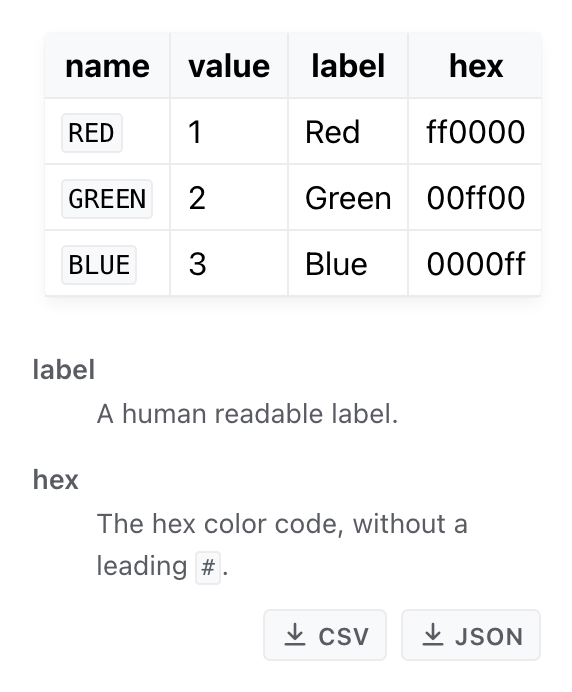
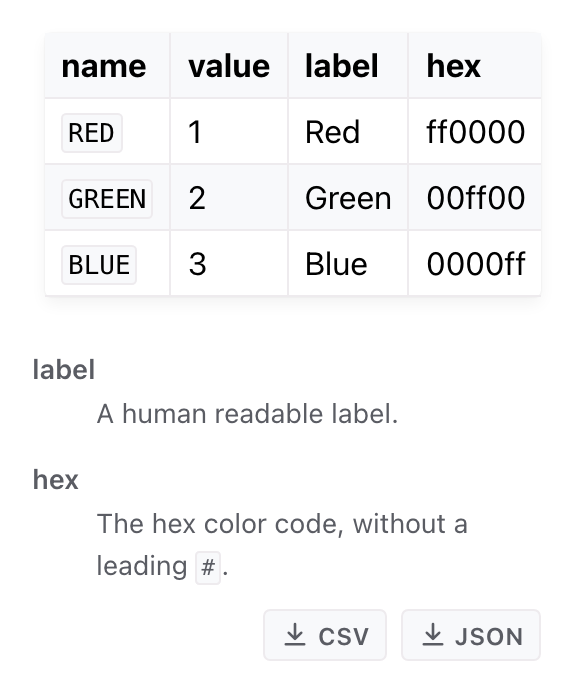
Add support for light/dark mode on furo theme

Changed region(s): [[0.535, 0.0607, 0.6836, 0.1214], [0.0892, 0.0607, 0.2675, 0.1214], [0.743, 0.0607, 0.8916, 0.1214]]

diff --git a/src/sphinxcontrib_enum/static/sphinxcontrib_enum_furo.css b/src/sphinxcontrib_enum/static/sphinxcontrib_enum_furo.css
@@ -1,0 +1,36 @@
+/*
+ * sphinxcontrib-enum: enum-table styles for the furo theme.
+ *
+ * Loaded (after sphinxcontrib_enum.css) only when html_theme = "furo". Colors use
+ * furo's variables, which furo redefines for dark mode, so these rules follow the
+ * light, dark and auto (system preference) modes without separate dark rules.
+ */
+
+/* striped rows make wide tables easier to scan */
+.enum-table-container table.enum-table > tbody > tr:nth-child(even) {
+    background: var(--color-background-secondary);
+}
+
+.enum-table-container table.enum-table > tbody > tr:hover {
+    background: var(--color-background-hover);
+}
+
+/* align header text with the cell content below it */
+.enum-table-container table.enum-table > thead th {
+    text-align: left;
+}
+
+/*
+ * furo's table shadow is too faint to see on its dark background, give tables a
+ * visible edge in dark mode. Furo's dark mode is either chosen explicitly
+ * (data-theme="dark") or follows the system preference (data-theme="auto").
+ */
+body[data-theme="dark"] .enum-table-container table.enum-table {
+    box-shadow: 0 0 0 1px var(--color-table-border);
+}
+
+@media (prefers-color-scheme: dark) {
+    body[data-theme="auto"] .enum-table-container table.enum-table {
+        box-shadow: 0 0 0 1px var(--color-table-border);
+    }
+}

diff --git a/src/sphinxcontrib_enum/__init__.py b/src/sphinxcontrib_enum/__init__.py
@@ -27,7 +27,7 @@ enum-properties.
 """
 
 __title__ = "sphinxcontrib-enum"
-__version__ = "0.2.0"
+__version__ = "0.3.0"
 __author__ = "Brian Kohan"
 __license__ = "MIT"
 __copyright__ = "Copyright 2026 Brian Kohan"
@@ -62,17 +62,26 @@ __all__ = [
 
 STATIC_DIR = Path(__file__).parent / "static"
 
+BASE_CSS = "sphinxcontrib_enum.css"
 
-def _add_static_path(app: Sphinx) -> None:
+THEME_CSS = {"furo": "sphinxcontrib_enum_furo.css"}
+"""Additional stylesheets for specific html themes, keyed by ``html_theme``."""
+
+
+def _add_static_files(app: Sphinx) -> None:
     # let sphinx copy (and refresh) our css with the rest of the static files, a new
     # list is assigned so we never mutate a default shared between applications
     app.config.html_static_path = [*app.config.html_static_path, str(STATIC_DIR)]
+    theme_css = THEME_CSS.get(app.config.html_theme)
+    if theme_css:
+        # after the base stylesheet so theme rules take precedence
+        app.add_css_file(theme_css, priority=501)
 
 
 def setup(app: Sphinx) -> dict[str, t.Any]:
     directive.setup(app)
-    app.add_css_file("sphinxcontrib_enum.css")
-    app.connect("builder-inited", _add_static_path)
+    app.add_css_file(BASE_CSS)
+    app.connect("builder-inited", _add_static_files)
     return {
         "version": __version__,
         "parallel_read_safe": True,

diff --git a/tests/test.py b/tests/test.py
@@ -1179,6 +1179,33 @@ def test_epub_builder(tmp_path):
     assert not (out / "_downloads").exists()
 
 
+@pytest.mark.parametrize(
+    "theme, theme_css",
+    [
+        ("furo", "sphinxcontrib_enum_furo.css"),
+        ("alabaster", None),
+    ],
+)
+def test_theme_css(tmp_path, theme, theme_css):
+    """Theme specific stylesheets are only loaded for their theme."""
+    out, warnings = build(
+        tmp_path, ".. enum-table:: tests.enums.Plain\n", html_theme=theme
+    )
+    assert not warnings
+    links = [
+        link["href"].split("?")[0]
+        for link in soup(out).select('link[rel="stylesheet"]')
+        if "sphinxcontrib_enum" in link["href"]
+    ]
+    expected = ["_static/sphinxcontrib_enum.css"]
+    if theme_css:
+        expected.append(f"_static/{theme_css}")
+    # the theme stylesheet follows (and so overrides) the base stylesheet
+    assert links == expected
+    for href in links:
+        assert (out / href).is_file()
+
+
 def test_rebuild_refreshes_static(tmp_path):
     """Rebuilding into the same output directory must not warn about static files."""
     out, warnings = build(tmp_path, ".. enum-table:: tests.enums.Plain\n")

diff --git a/doc/source/usage.rst b/doc/source/usage.rst
@@ -242,6 +242,35 @@ a value it offers every format:
    .. enum-table:: examples.Planet
       :download: none
 
+.. _theme_styling:
+
+Theme Styling
+=============
+
+Tables are ordinary Sphinx tables, so they are styled by your html theme. The extension adds a
+small theme-neutral stylesheet for the layout of the legend and the download buttons, and extra
+styles for themes it knows:
+
+* furo_ - striped rows, a row hover highlight, left-aligned headers and a visible table edge in
+  dark mode. These use furo's color variables, so they follow its light, dark and auto modes.
+
+Every rendered table is a ``table.enum-table`` inside a ``div.enum-table-container``. To change
+the styling, add your own stylesheet with :confval:`html_css_files <sphinx:html_css_files>`, it
+is loaded after the extension's stylesheets:
+
+.. code-block:: python
+
+   # conf.py
+   html_static_path = ["_static"]
+   html_css_files = ["custom.css"]
+
+.. code-block:: css
+
+   /* _static/custom.css - turn off the striped rows */
+   .enum-table-container table.enum-table > tbody > tr:nth-child(even) {
+       background: none;
+   }
+
 .. _enum_properties:
 
 enum-properties Enums

diff --git a/doc/source/changelog.rst b/doc/source/changelog.rst
@@ -3,6 +3,11 @@
 Changelog
 =========
 
+0.3.0 (2026-09-29)
+------------------
+
+* Support furo theme.
+
 0.2.0 (2026-09-28)
 ------------------
 
@@ -15,4 +20,5 @@ Changelog
 * Initial release: the ``enum-table`` directive with optional CSV and JSON downloads.
 * Member docstrings are rendered in a ``doc`` column.
 * Optional column legends describe columns using field and property docstrings.
+* Additional table styles for the furo theme, in light and dark mode.
 * Tables render in PDF (LaTeX) builds, large tables wrap long cells and break across pages.

diff --git a/doc/source/refs.rst b/doc/source/refs.rst
@@ -3,4 +3,5 @@
 .. _Sphinx: https://www.sphinx-doc.org
 .. _enum-properties: https://enum-properties.readthedocs.io
 .. _dataclass: https://docs.python.org/3/library/dataclasses.html
+.. _furo: https://pradyunsg.me/furo
 .. _intersphinx: https://www.sphinx-doc.org/en/master/usage/extensions/intersphinx.html
